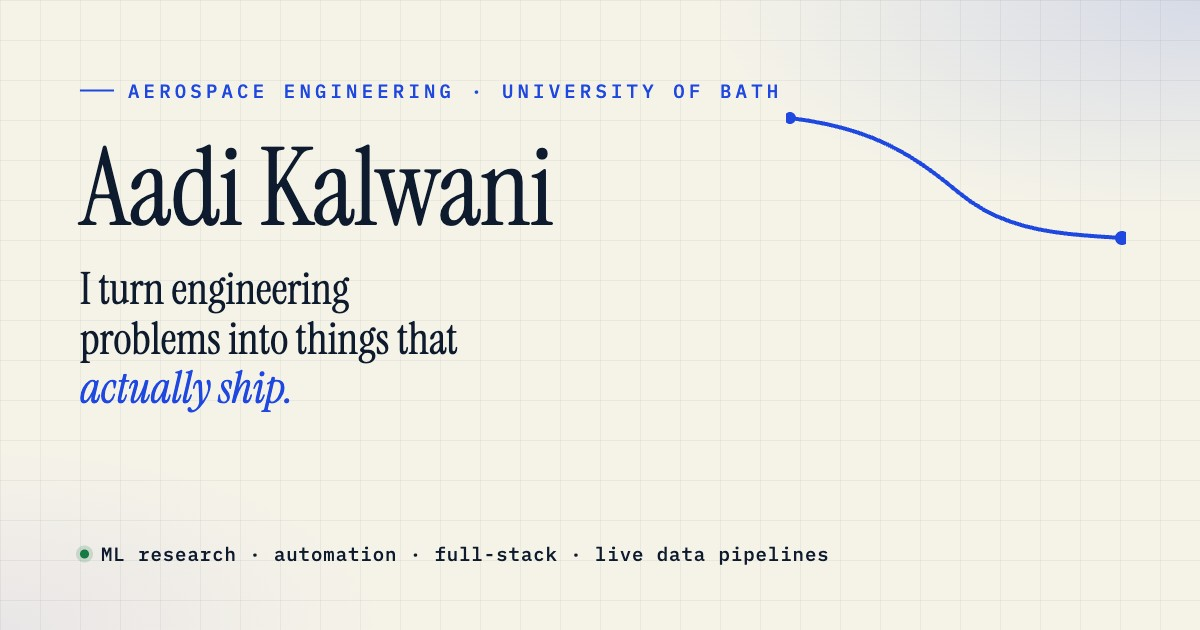
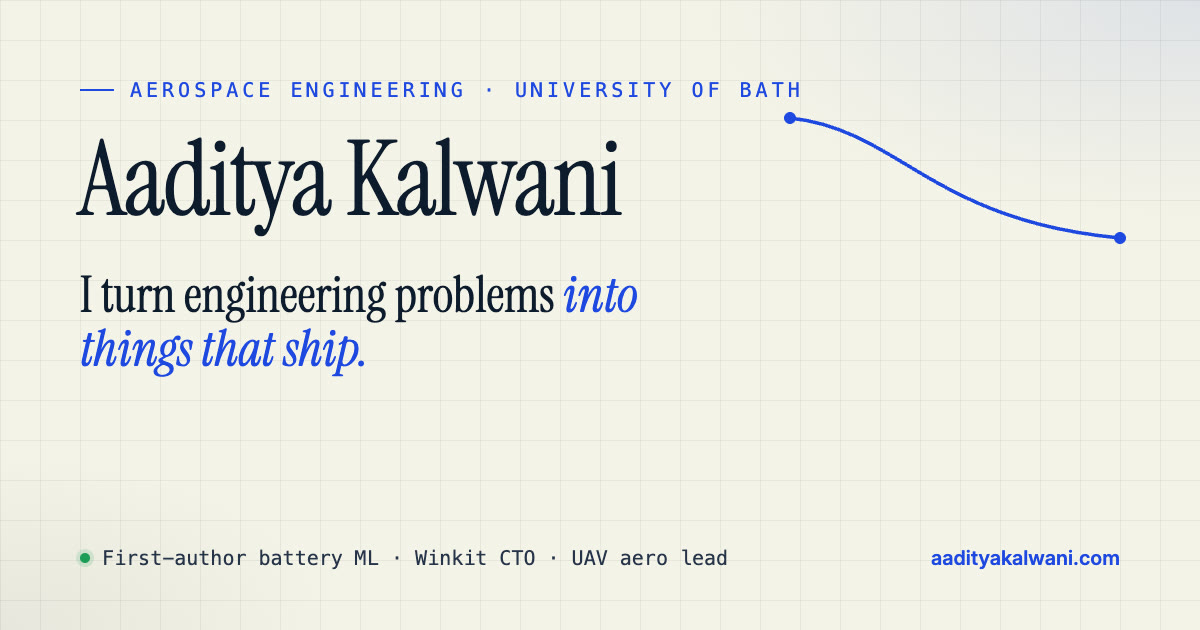
Link preview shows the full name, live headline and domain

diff --git a/index.html b/index.html
@@ -30,13 +30,13 @@ setTimeout(function(){if(!window.__siteReady){document.documentElement.classList
 <meta property="og:url" content="https://aadityakalwani.com/">
 <meta property="og:title" content="Aaditya Kalwani · Aerospace engineer and builder">
 <meta property="og:description" content="Second-year aerospace engineer at Bath. First-author battery ML research, co-founder and CTO of Winkit, UAV aerodynamics lead and AI red-teaming. Twenty shipped, and counting.">
-<meta property="og:image" content="https://aadityakalwani.com/og.jpg">
+<meta property="og:image" content="https://aadityakalwani.com/og.jpg?v=20261122">
 <meta property="og:image:width" content="1200">
 <meta property="og:image:height" content="630">
 <meta name="twitter:card" content="summary_large_image">
 <meta name="twitter:title" content="Aaditya Kalwani · Aerospace engineer and builder">
 <meta name="twitter:description" content="Second-year aerospace engineer at Bath. First-author battery ML research, co-founder and CTO of Winkit, UAV aerodynamics lead and AI red-teaming. Twenty shipped, and counting.">
-<meta name="twitter:image" content="https://aadityakalwani.com/og.jpg">
+<meta name="twitter:image" content="https://aadityakalwani.com/og.jpg?v=20261122">
 <meta property="og:image:alt" content="Aaditya Kalwani, aerospace engineer and builder: first-author battery ML research, Winkit CTO, UAV aerodynamics lead.">
 <meta name="twitter:image:alt" content="Aaditya Kalwani, aerospace engineer and builder: first-author battery ML research, Winkit CTO, UAV aerodynamics lead.">
 <link rel="apple-touch-icon" href="assets/apple-touch-icon.png">

diff --git a/m.html b/m.html
@@ -16,13 +16,13 @@
 <meta property="og:url" content="https://aadityakalwani.com/">
 <meta property="og:title" content="Aaditya Kalwani · Aerospace engineer and builder">
 <meta property="og:description" content="Second-year aerospace engineer at Bath. First-author battery ML research, co-founder and CTO of Winkit, UAV aerodynamics lead and AI red-teaming. Twenty shipped, and counting.">
-<meta property="og:image" content="https://aadityakalwani.com/og.jpg">
+<meta property="og:image" content="https://aadityakalwani.com/og.jpg?v=20261122">
 <meta property="og:image:width" content="1200">
 <meta property="og:image:height" content="630">
 <meta name="twitter:card" content="summary_large_image">
 <meta name="twitter:title" content="Aaditya Kalwani · Aerospace engineer and builder">
 <meta name="twitter:description" content="Second-year aerospace engineer at Bath. First-author battery ML research, co-founder and CTO of Winkit, UAV aerodynamics lead and AI red-teaming. Twenty shipped, and counting.">
-<meta name="twitter:image" content="https://aadityakalwani.com/og.jpg">
+<meta name="twitter:image" content="https://aadityakalwani.com/og.jpg?v=20261122">
 
 <link rel="preload" href="assets/fonts/inter-latin.woff2" as="font" type="font/woff2" crossorigin>
 <link rel="preload" href="assets/fonts/instrument-serif-latin.woff2" as="font" type="font/woff2" crossorigin>
